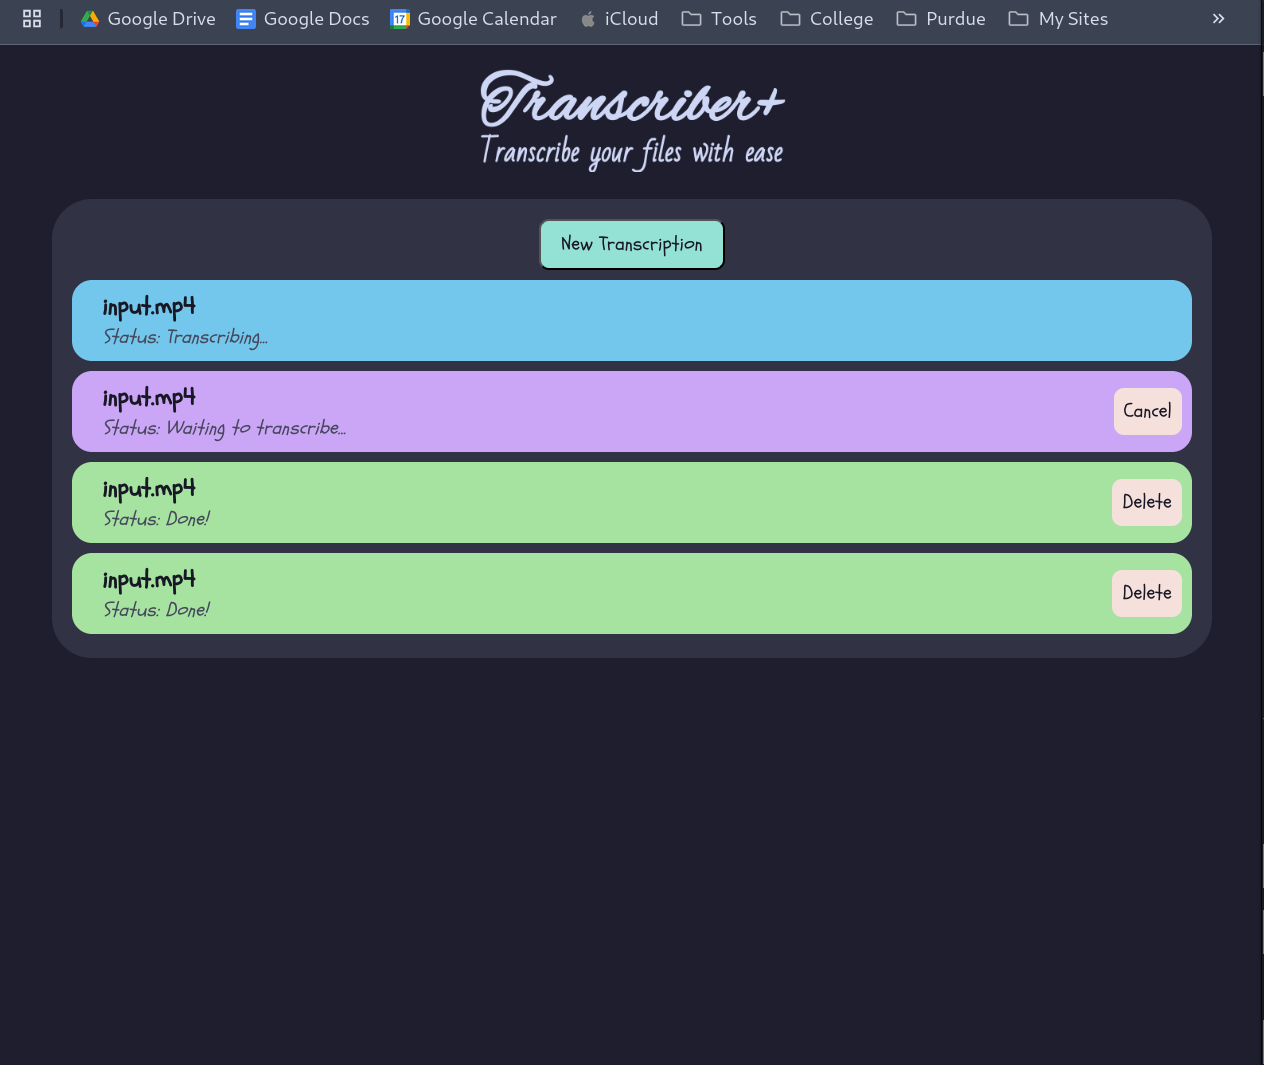
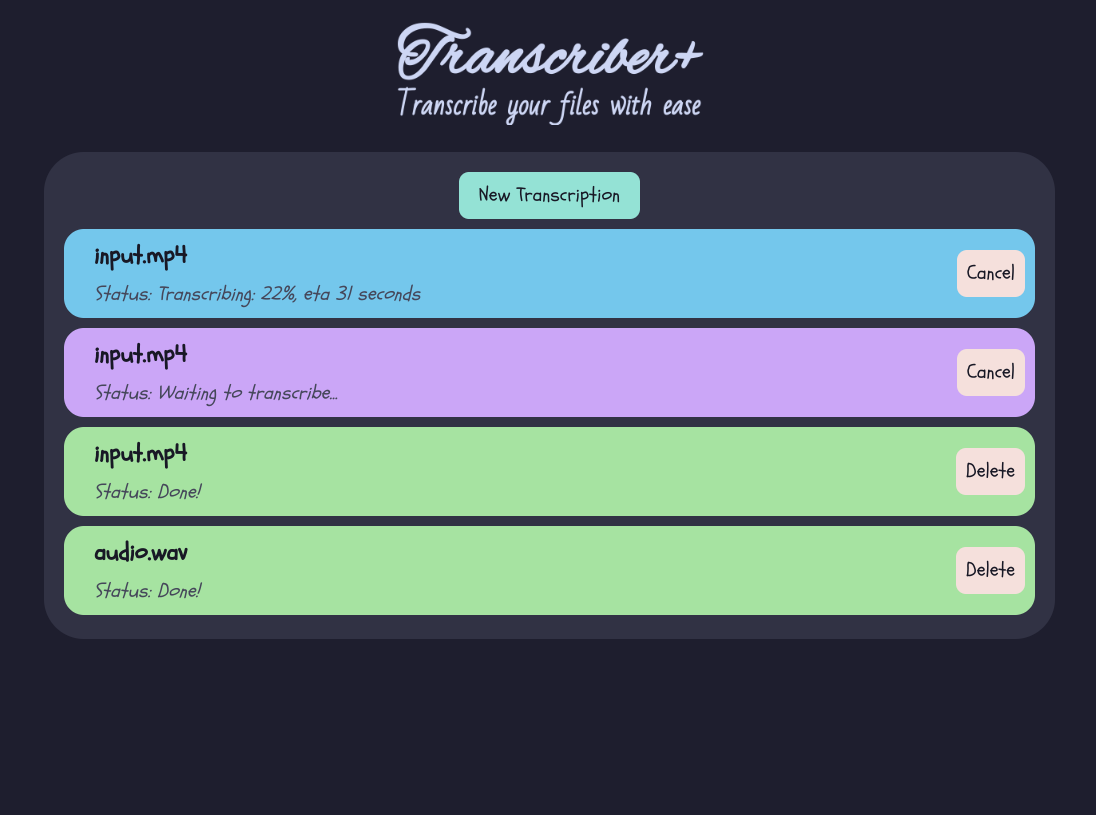
Updating showcase images with transcription percent and cancel button

diff --git a/README.md b/README.md
@@ -1,6 +1,6 @@
 # Transcriber+
 
-Project page: [https://lelserslasers.itch.io/transcriber-plus](https://lelserslasers.itch.io/transcriber-plus)
+Project page: [lelserslasers.itch.io/transcriber-plus](https://lelserslasers.itch.io/transcriber-plus)
 
 ![Showcase2](./showcase/2.png)
 
